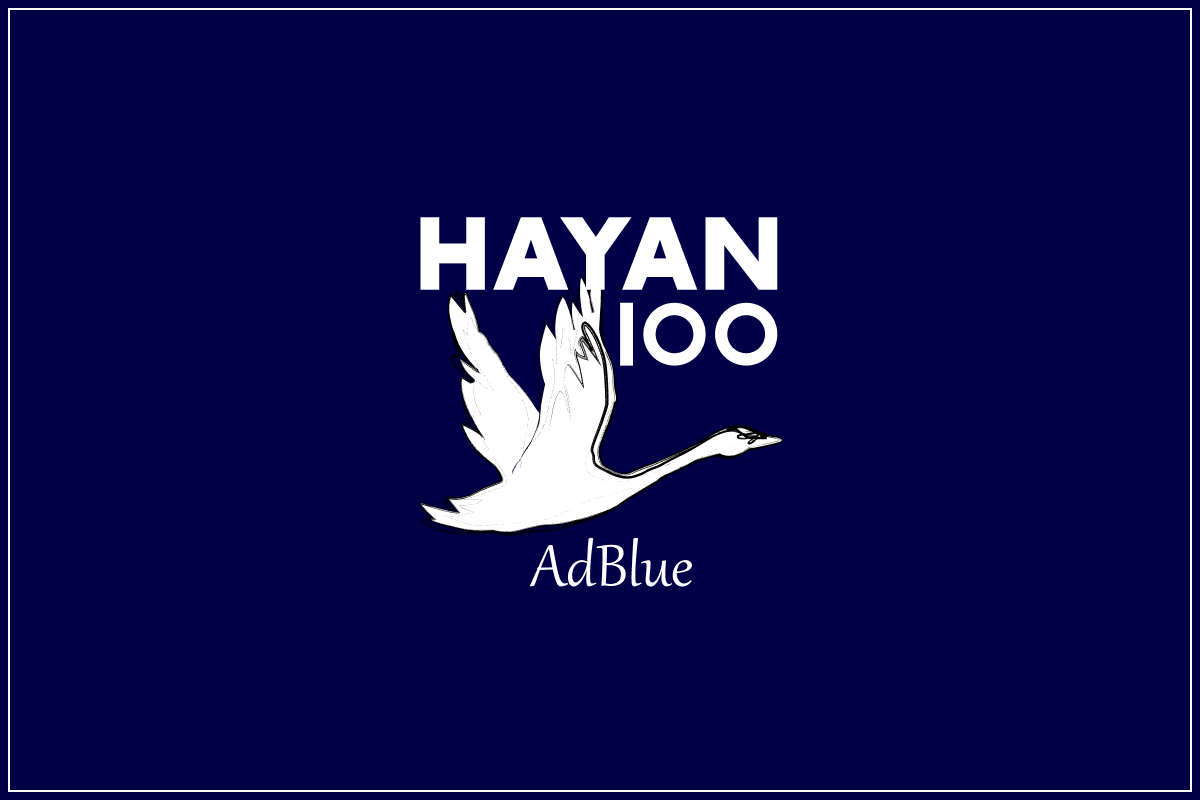
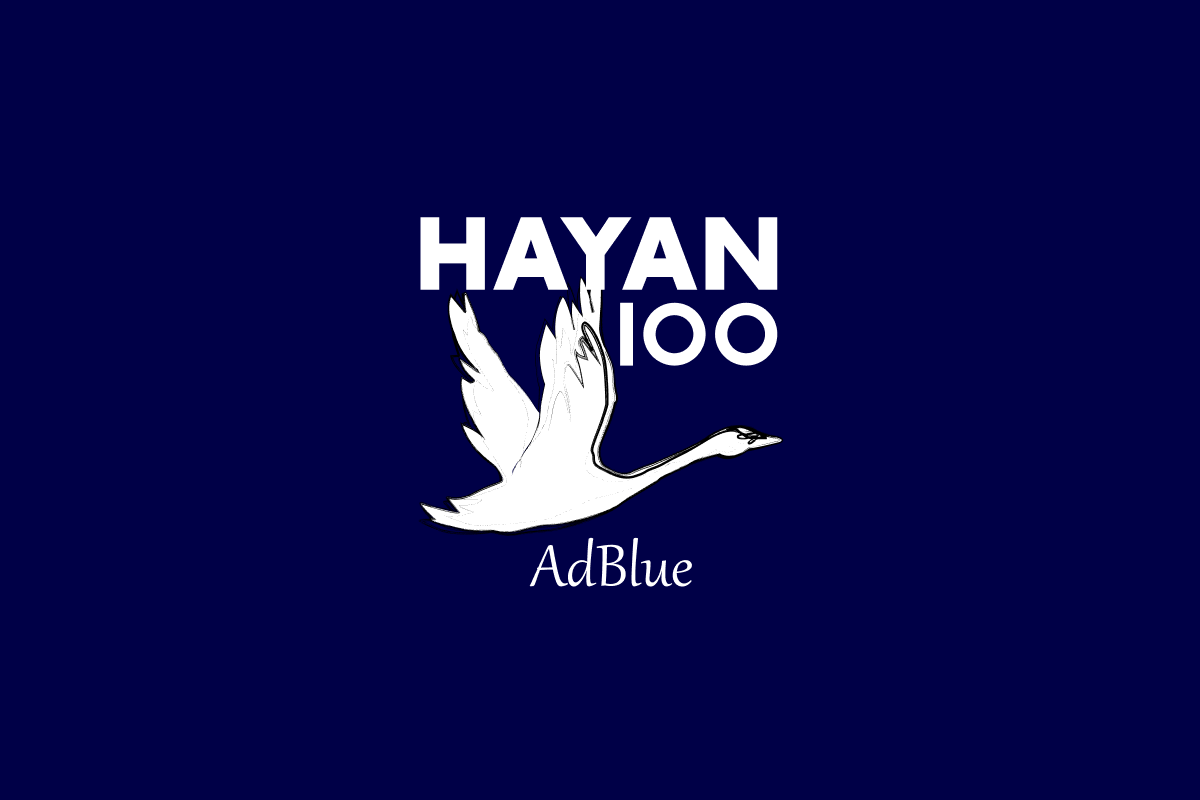
fix(og): remove border and add page metadata

Changed region(s): [[0.9867, 0.0, 1.0, 1.0]]

diff --git a/app/_layout.tsx b/app/_layout.tsx
@@ -1,7 +1,8 @@
 import { useEffect } from 'react';
 import * as Sentry from '@sentry/react-native';
 import { useFonts } from 'expo-font';
-import { Stack } from 'expo-router';
+import { Stack, usePathname } from 'expo-router';
+import Head from 'expo-router/head';
 import * as SplashScreen from 'expo-splash-screen';
 import { StatusBar } from 'expo-status-bar';
 import * as Updates from 'expo-updates';
@@ -13,6 +14,7 @@ import { AppBar } from '../components/AppBar';
 import { AuthProvider, useAuth } from '../components/AuthProvider';
 import { NoticeProvider } from '../components/NoticeProvider';
 import { typography, webAppFrame } from '../constants/theme';
+import { getWebMetadata } from '../constants/webMetadata';
 
 const sentryDsn = process.env.EXPO_PUBLIC_SENTRY_DSN?.trim();
 const sentryEnabled = !__DEV__ && Boolean(sentryDsn);
@@ -126,8 +128,16 @@ function RootNavigator() {
 }
 
 function RootLayout() {
+  const metadata = getWebMetadata(usePathname());
   return (
     <View style={[styles.root, Platform.OS === 'web' && webAppFrame]}>
+      {Platform.OS === 'web' && (
+        <Head>
+          <title>{metadata.title}</title>
+          <meta property="og:title" content={metadata.title} />
+          <meta property="og:url" content={metadata.url} />
+        </Head>
+      )}
       <AuthProvider>
         <NoticeProvider>
           <RootNavigator />

diff --git a/public/index.html b/public/index.html
@@ -4,11 +4,13 @@
     <meta charset="utf-8" />
     <meta httpEquiv="X-UA-Compatible" content="IE=edge" />
     <meta name="viewport" content="width=device-width, initial-scale=1, shrink-to-fit=no" />
-    <title>%WEB_TITLE%</title>
-    <meta property="og:title" content="하얀100" />
+    <title>하얀100</title>
+    <meta property="og:title" content="하얀100" data-rh="true" />
+    <meta name="description" content="지정된 소속 기사님을 위한 전용 서비스입니다. 주유소 조회, 마일리지 신청 및 처리 내역을 확인할 수 있습니다." />
+    <meta property="og:description" content="지정된 소속 기사님을 위한 전용 서비스입니다. 주유소 조회, 마일리지 신청 및 처리 내역을 확인할 수 있습니다." />
     <meta property="og:type" content="website" />
-    <meta property="og:url" content="https://www.hayan100.kr/" />
-    <meta property="og:image" content="https://www.hayan100.kr/og.png" />
+    <meta property="og:url" content="https://www.hayan100.kr/" data-rh="true" />
+    <meta property="og:image" content="https://www.hayan100.kr/og.png?v=2" />
     <meta property="og:image:type" content="image/png" />
     <meta property="og:image:width" content="1200" />
     <meta property="og:image:height" content="800" />

diff --git a/constants/webMetadata.ts b/constants/webMetadata.ts
@@ -1,0 +1,28 @@
+export const webPageNames: Record<string, string> = {
+  '/': '',
+  '/mileage': '',
+  '/login': '로그인',
+  '/sign-up': '회원가입',
+  '/find-email': '이메일 찾기',
+  '/find-password': '비밀번호 찾기',
+  '/reset-password': '비밀번호 재설정',
+  '/map': '지도',
+  '/mileage/apply': '적립',
+  '/mileage/pending': '대기 · 사진보기',
+  '/mileage/rejected': '반려 · 사유보기',
+  '/mypage': '내정보',
+  '/term': '이용약관',
+  '/privacy': '개인정보처리방침',
+  '/collection': '개인정보 수집 및 이용 동의',
+  '/marketing': '마케팅 정보 수신 동의',
+};
+
+export function getWebMetadata(path: string) {
+  const pathname = path.split(/[?#]/)[0].replace(/\/+$/, '') || '/';
+  const route = Object.hasOwn(webPageNames, pathname) ? pathname : '/';
+  const pageName = webPageNames[route];
+  return {
+    title: pageName ? `하얀100 | ${pageName}` : '하얀100',
+    url: `https://www.hayan100.kr${route}`,
+  };
+}

diff --git a/components/LegalDocumentPage.tsx b/components/LegalDocumentPage.tsx
@@ -1,5 +1,5 @@
 import Head from 'expo-router/head';
-import { StyleSheet, Text, View } from 'react-native';
+import { Platform, StyleSheet, Text, View } from 'react-native';
 
 import { legalDocuments, type LegalDocument } from '../constants/legalDocuments';
 import { colors, typography } from '../constants/theme';
@@ -11,7 +11,7 @@ export function LegalDocumentPage({ document }: { document: LegalDocument }) {
   return (
     <AppScreen variant="plain">
       <Head>
-        <title>{title}</title>
+        {Platform.OS !== 'web' && <title>{title}</title>}
         <meta name="robots" content="noindex, nofollow" />
       </Head>
       <View style={styles.content}>

diff --git a/docs/development-notes.md b/docs/development-notes.md
@@ -1069,3 +1069,12 @@
 - AI 구현: 설치된 `expo-splash-screen` 플러그인에 기존 `assets/icon.png`, 배경색, `imageWidth: 100`만 설정했다. 네이티브 기본 중앙 정렬·contain을 사용하며 폰트 로딩·세션 복원 후 닫는 기존 `app/_layout.tsx`의 흐름을 유지한다. 새 화면·이미지·애니메이션은 추가하지 않았다.
 - 검증: `pnpm typecheck`, `git diff --check`, `pnpm exec expo config --type public` 및 실제 설정값 검사가 통과했고 독립 리뷰에서 결함이 발견되지 않았다. `expo install --check`의 기존 15개 권장 버전 차이는 그대로이며 의존성은 변경하지 않았다.
 - 네이티브 설정은 웹 스타일과 달리 새 앱 빌드에 반영된다. 실제 iOS·Android 설치 화면과 기기별 마스크는 미검증이며 Expo Go 확인을 릴리스 검증으로 대체하지 않았다. 배포·실기기 확인은 별도다.
+
+## 2026-09-26 — OG 테두리 제거와 페이지별 공유 문구
+
+- 사용자 결정: 검토한 와이어프레임대로 OG 흰 테두리만 제거하고, 메인은 `하얀100`, 나머지는 `하얀100 | {pageName}`으로 표시하도록 승인했다. 공통 설명은 `지정된 소속 기사님을 위한 전용 서비스입니다. 주유소 조회, 마일리지 신청 및 처리 내역을 확인할 수 있습니다.`로 확정했다.
+- OG 이미지의 2px 흰 테두리 7,856픽셀만 기존 배경 `#000047`로 바꿨다. 1200×800 크기와 나머지 모든 픽셀의 일치를 확인했다. 이미지 URL에 `?v=2`를 붙여 수정본을 구분한다.
+- `/`와 로그인 후 첫 화면 `/mileage`는 메인 제목을 사용한다. 나머지 14개 경로는 기존 화면·메뉴명을 사용하고 대기·반려 상세도 정적인 메뉴명만 사용한다. 쿼리의 회원·신청 식별자, 재설정 토큰, 날짜나 서버 응답을 제목·OG URL에 포함하지 않는다.
+- Expo SPA와 인증 라우팅은 유지했다. Vercel 웹 export 다음 단계에서 같은 앱 HTML에 경로별 메타태그를 넣은 파일을 생성해 JavaScript를 실행하지 않는 공유 크롤러도 읽을 수 있게 했다. 웹 내부 이동은 루트 `Head`에서 같은 이름표를 사용하며 기존 태그를 중복 생성하지 않는다. 약관 초안의 검색 제외와 네이티브 문서 제목을 유지했다.
+- 검증: OG 회귀 테스트 2개, 최종 타입 검사·웹 export·16개 경로 HTML 생성·공백 검사를 통과했다. 브라우저에서 이용약관 제목·OG·검색 제외, 로그인 경로에서 메인으로 이동한 뒤 메타태그 갱신·중복 없음, 수정 이미지 표시를 확인했다. 독립 리뷰에서 결함은 발견되지 않았다. 임시 origin에서는 기존 API 연결 오류가 있어 인증 기능 검증으로 해석하지 않는다.
+- 운영 배포·카카오 공유 캐시 갱신은 수행하지 않았다. 다른 세션의 마일리지 사진 안내 변경은 수정하거나 커밋하지 않았다.
